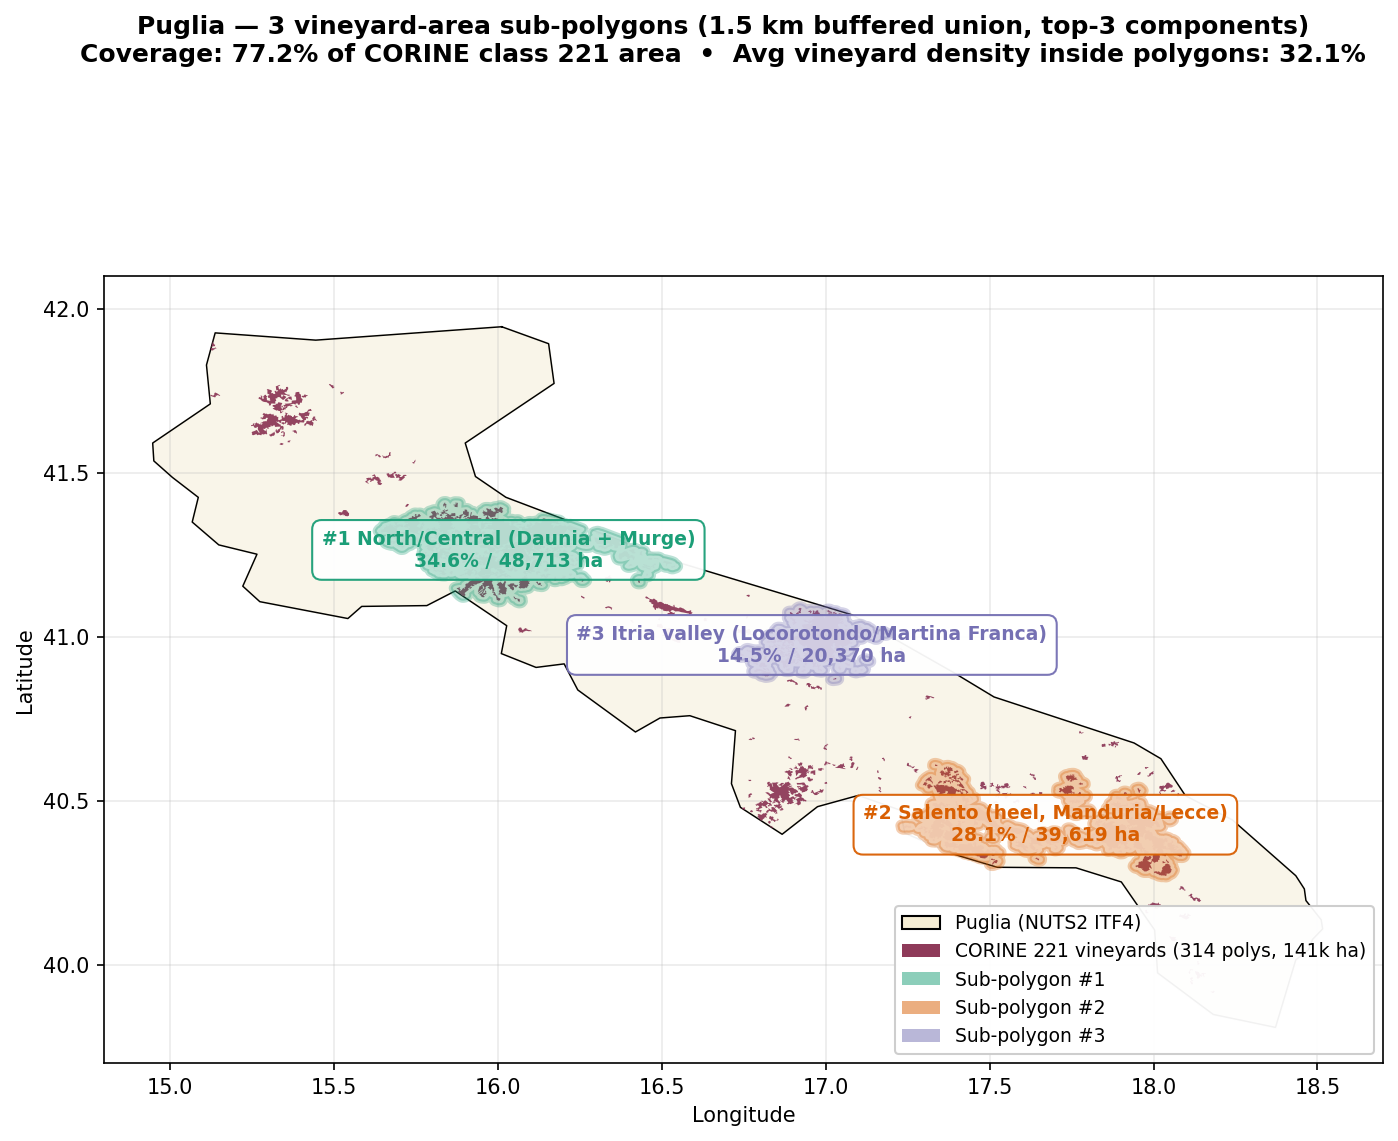
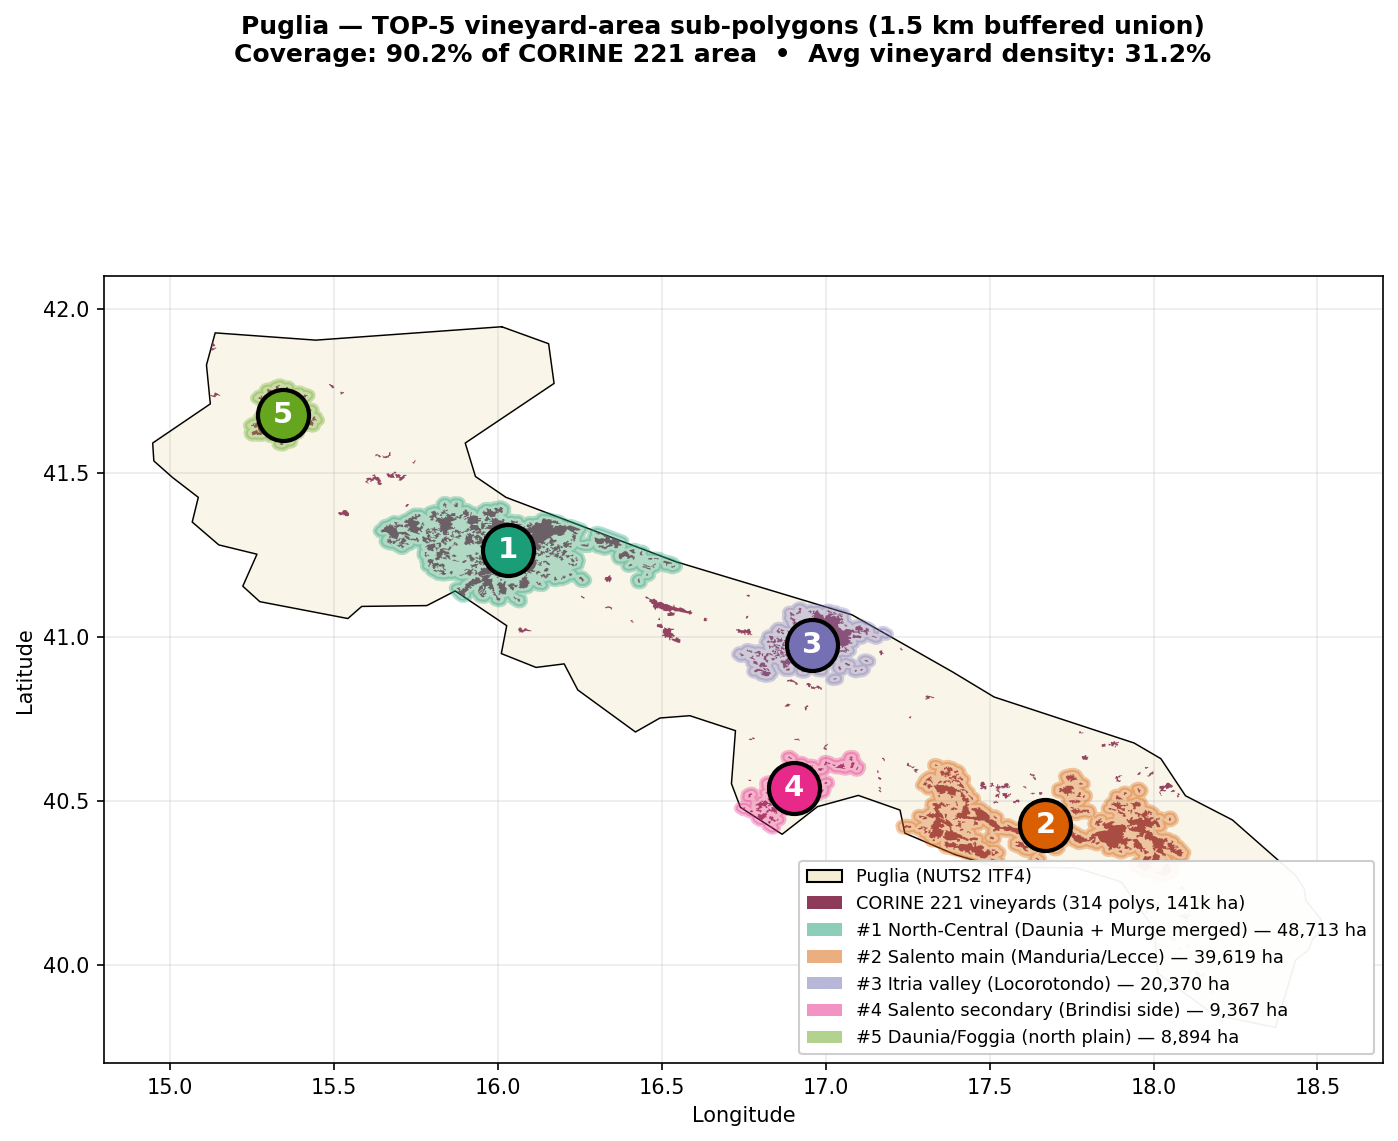
Update Puglia derived zones from top-3 to top-5 components
Increased coverage from 77.2% -> 90.2% with density essentially unchanged
(32.1% -> 31.2%). Adds Daunia/Foggia and Brindisi-eastern clusters that
were previously missing. Methodology doc and example image updated.

diff --git a/CHANGELOG.md b/CHANGELOG.md
@@ -1,5 +1,17 @@
 # Changelog
 
+## v0.1.1 — 2026-05-18
+
+### Changed
+
+- `data/derived_vineyard_zones/puglia/` now contains the **top-5**
+  components (was top-3). Coverage rises from 77.2% to **90.2%** with
+  density essentially unchanged (32.1% → 31.2%). Adds the previously
+  missing Daunia/Foggia cluster (#5) and a separate eastern cluster
+  around Brindisi (#4). See `docs/METHODOLOGY.md` for rationale.
+- `examples/example_puglia_subpolygons.png` updated to show the top-5
+  layout.
+
 ## v0.1.0 — 2026-05-18
 
 Initial release.

diff --git a/docs/METHODOLOGY.md b/docs/METHODOLOGY.md
@@ -96,7 +96,15 @@ that yielded a defensible coverage/density combination:
 |---|---|---|---|---|
 | Sardegna | 10 km | 1 | n/a (one polygon by design) | ~25% |
 | Sicilia | 1 km | 3 | 88.6% | 39.6% |
-| Puglia | 1.5 km | 3 | 77.2% | 32.1% |
+| Puglia | 1.5 km | 5 | 90.2% | 31.2% |
+
+Note for Puglia: an initial top-3 build gave 77.2% / 32.1%. The top-N
+sweep showed that components 4 and 5 (each ~300–400 km², still dense
+vineyard clusters) add +13 pp of coverage with almost no density cost
+(31.2 vs 32.1) — so we ship the top-5 version. This is unlike the
+buffer-size lever, where higher coverage always costs density: adding
+*new clusters* at the same buffer keeps density stable because each
+new cluster IS dense vineyard. See `examples/example_puglia_subpolygons.png`.
 
 Why different parameters per region:
 - **Sardegna** has clustered vineyards in one main southern wine belt; one